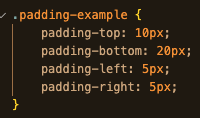
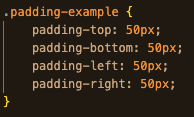
Finalise padding example

diff --git a/blog/html-css.html b/blog/html-css.html
@@ -71,11 +71,23 @@
                 </p>
             </div>
             <div class="main-paragraph">
-                <p>Padding is the space inside an element, between its content (ie. words or images) and the border. 
+                <p><strong>Padding</strong> is the space inside an element, between its content (ie. words or images) and the border. 
                     Imagine padding is like the matte board inside a frame, it puts space between the frame and the picture itself. 
                     Just like margins, padding can be controlled from all sides (top, bottom, left, right).
                     See the example below:
                 </p>
+            </div>
+            <div class="centered">
+                <img class="blog-image" src="../images/padding-code.png">
+            </div>
+            <div class="main-paragraph">
+                <p class="border-example margin-example padding-example">This paragraph has a blue border 2 pixels wide, 
+                    margins of 200px on each side in relation to the transparent box, <strong>and</strong> padding of 50 pixels on each side.</p>
+            </div>
+            <div class="main-paragraph">
+                <p>Padding is used when adjusting the look of an individual element, when you may want more space between the content and the border. 
+                    Thinking again about the matte board in the frame, we might make this smaller or larger in relation to the frame and the size of the picture (content) itself. 
+                    When you adjust the padding, the content size remains the same.</p>
             </div>
     </body>
 </html>

diff --git a/styles/main.css b/styles/main.css
@@ -93,6 +93,13 @@ footer {
     margin-right: 200px;
 }
 
+.padding-example {
+    padding-top: 50px;
+    padding-bottom: 50px;
+    padding-left: 50px;
+    padding-right: 50px;
+}
+
 @media (min-width: 320px) and (max-width: 768px) {
     body {
         background: rgba(92, 172, 164,.8);
